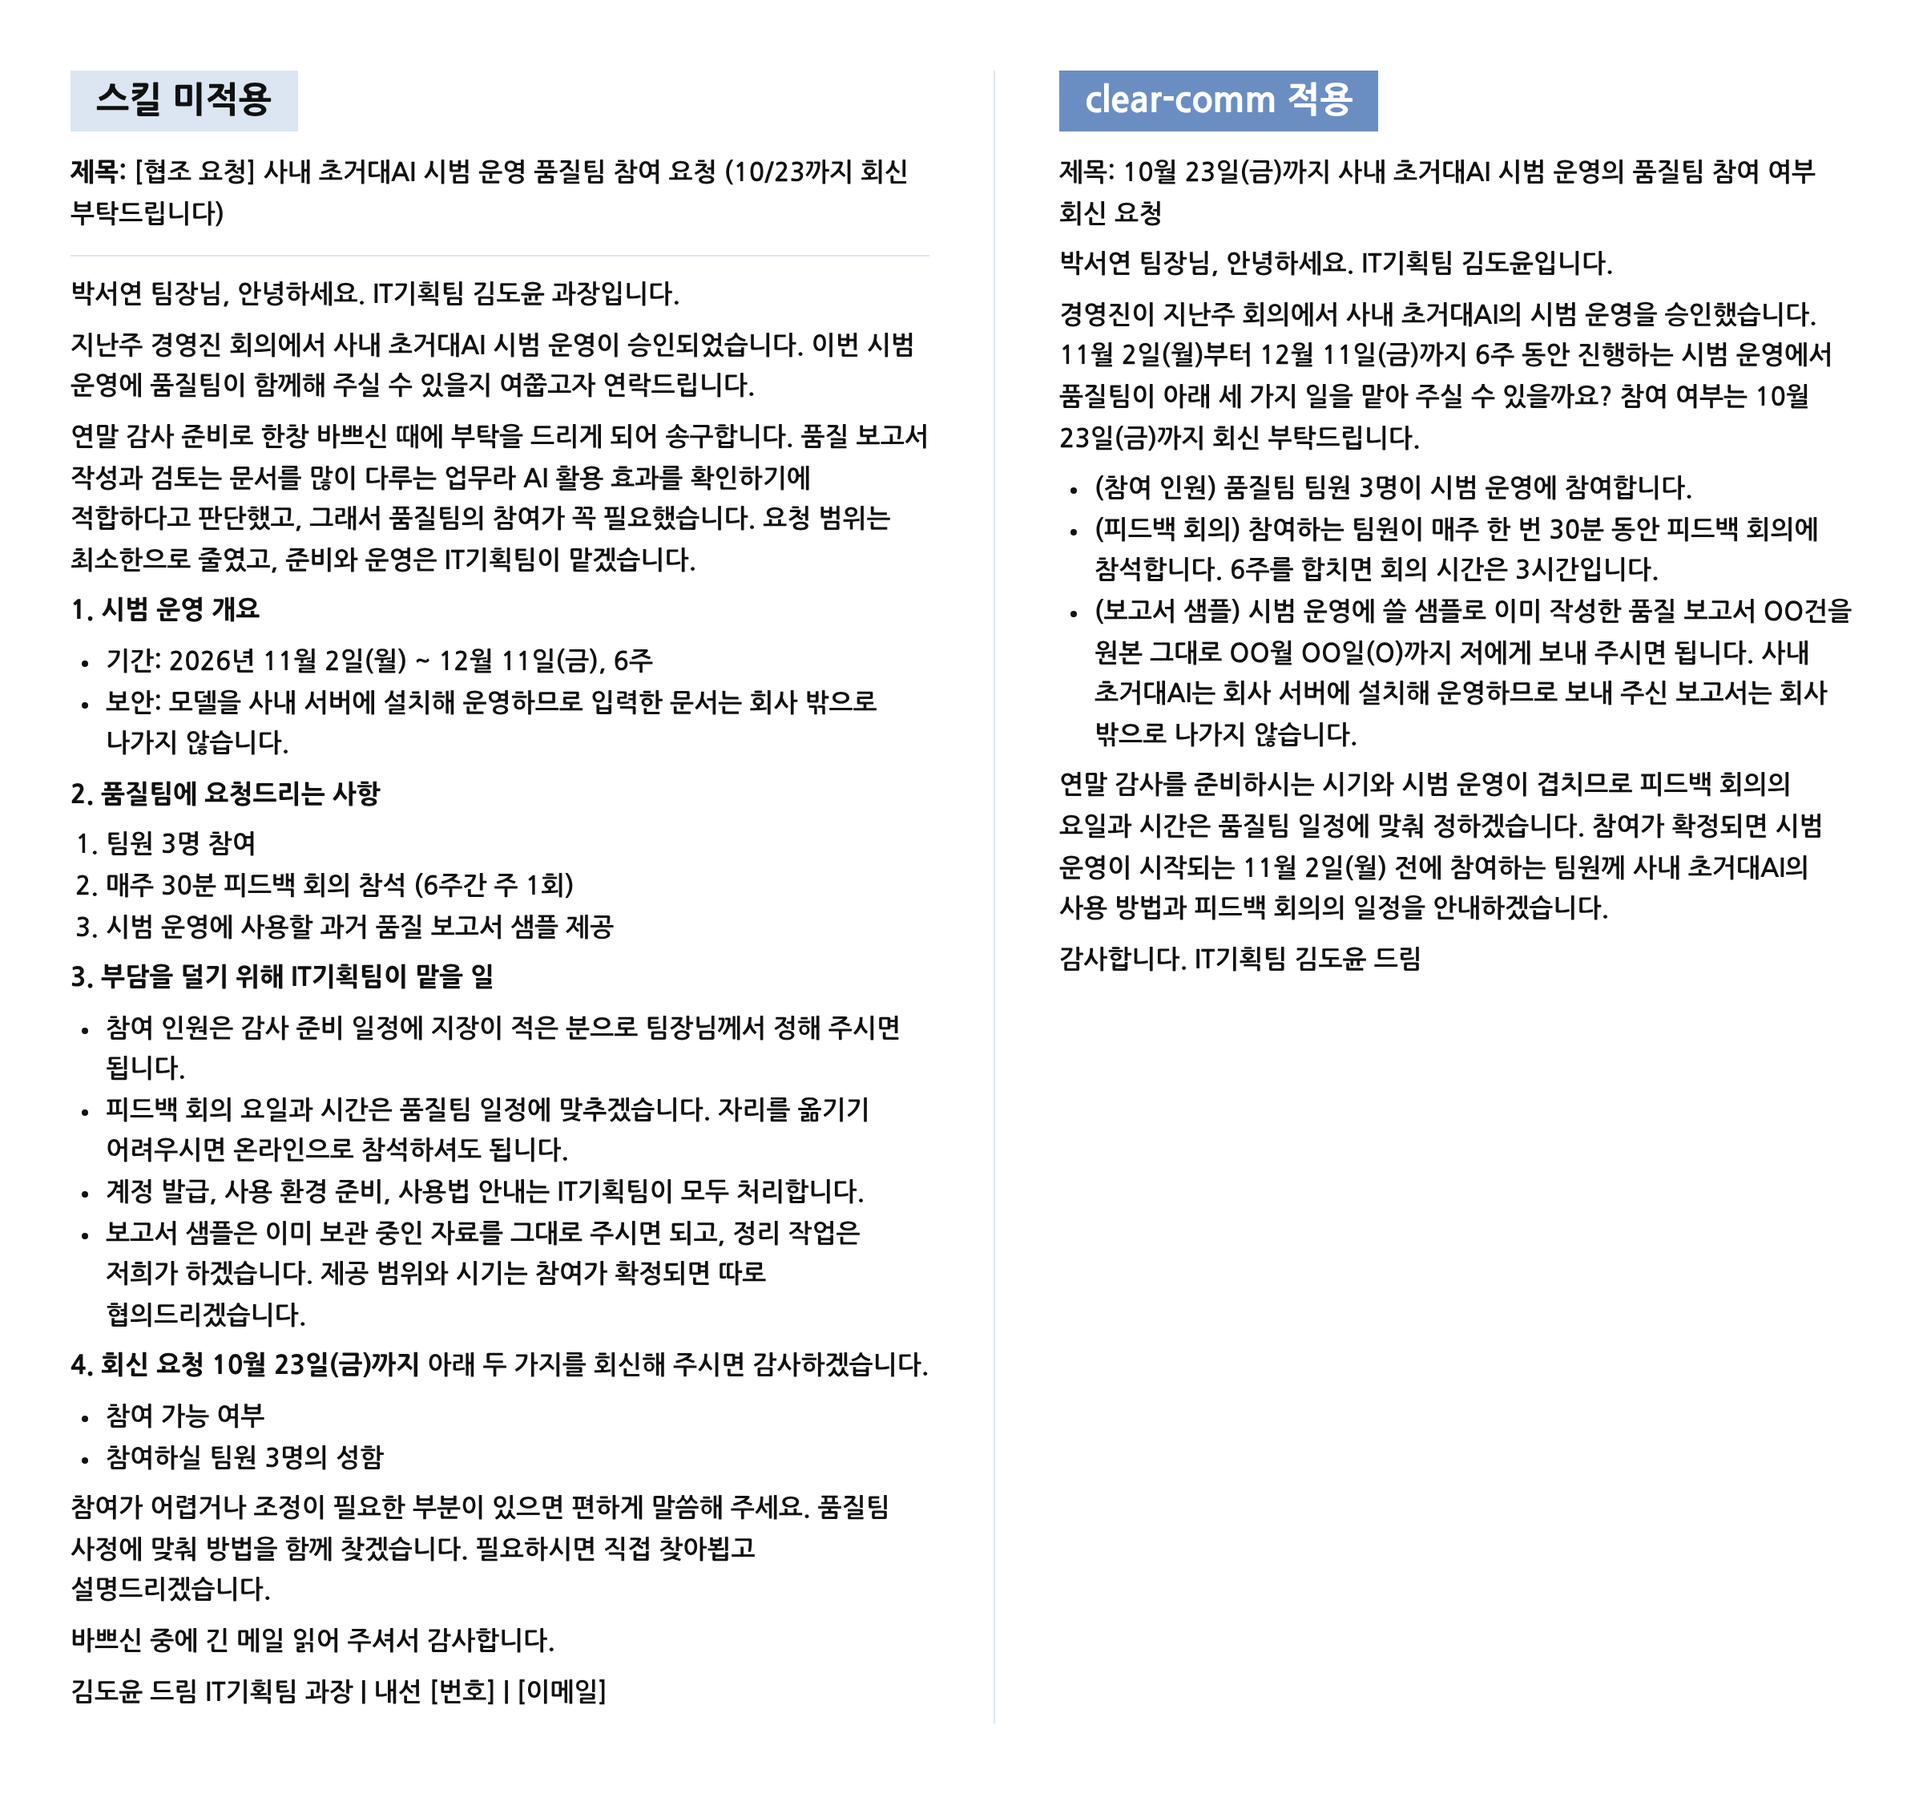
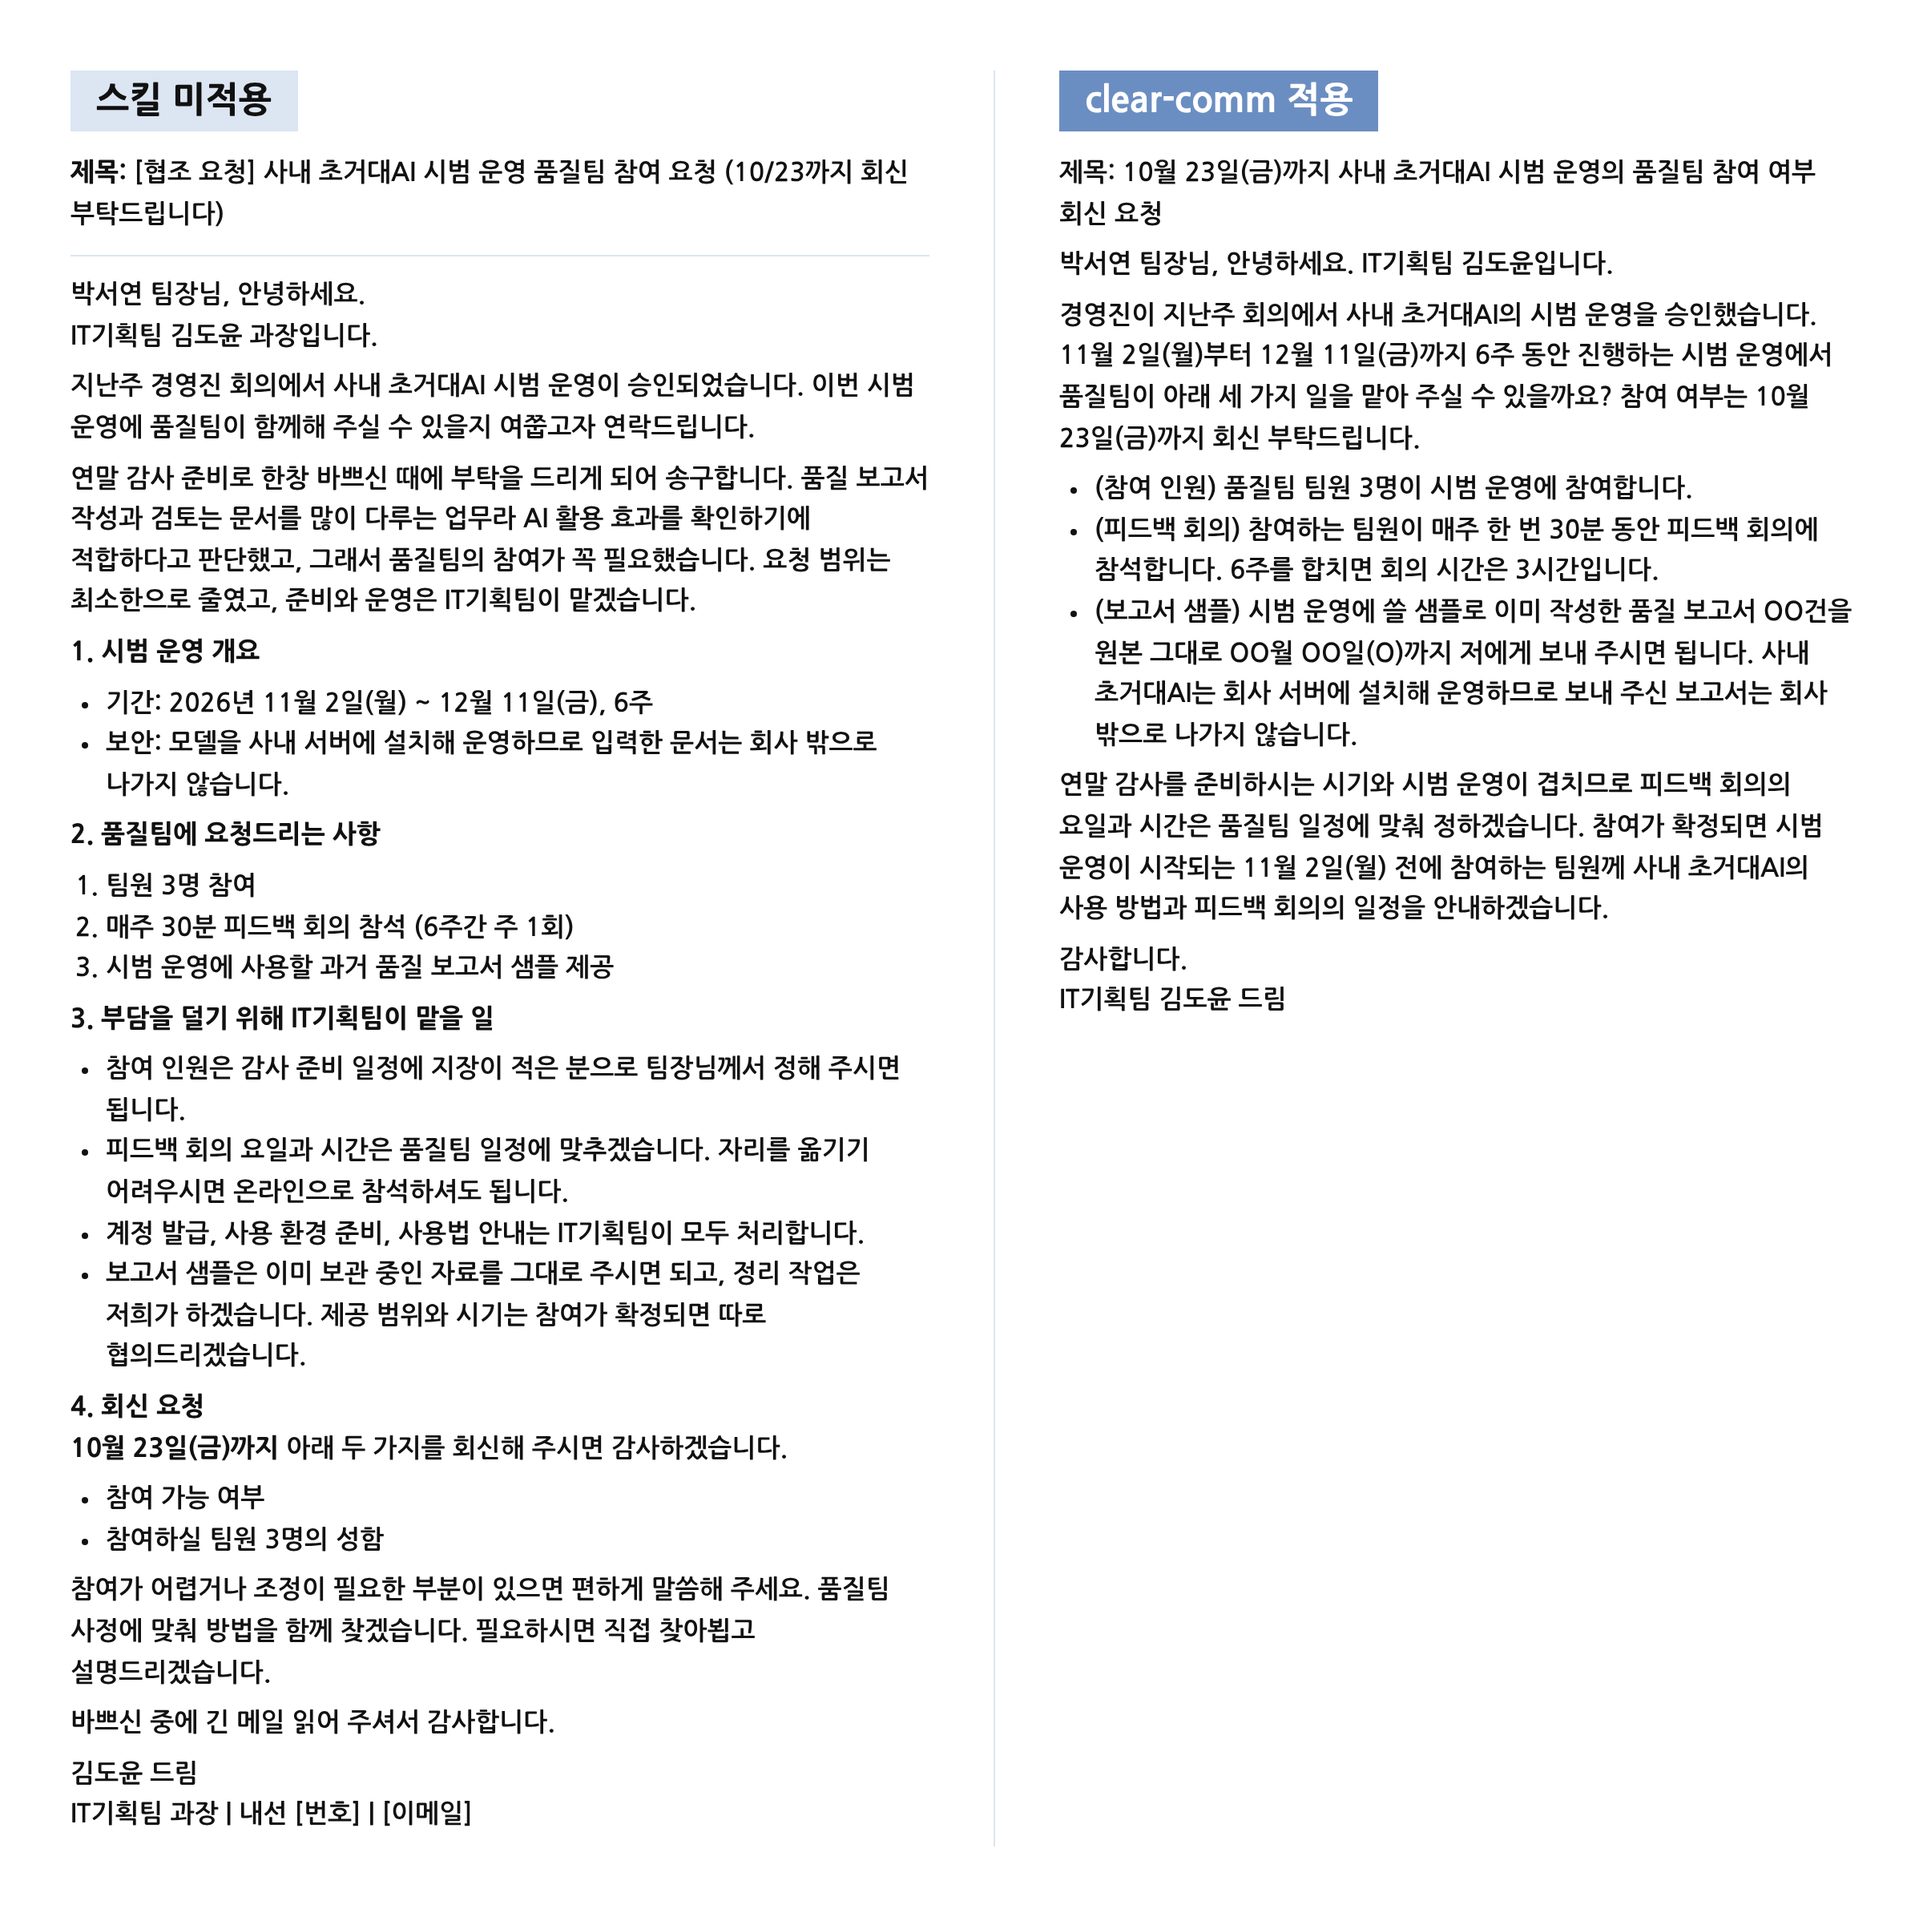
Finish the English demos and refresh all comparison images
- Adds the English logical-write skill run and renders the five English
  writing comparisons with English labels.
- Comparison images keep authored line breaks, and the clear-comm emails
  mark their signature lines as hard breaks so GitHub shows them on
  separate lines too.
- Three-column images are wider so long multi-skill labels stay on one
  line. All Korean and English images are re-rendered with these settings.

Claude-Session: https://claude.ai/code/session_01GGLbaL65V7p6PFmonQcYHU

Changed region(s): [[0.0312, 0.0308, 0.4688, 0.9558], [0.5312, 0.0308, 0.9688, 0.555]]

diff --git a/skills/logical-write/demo/en/after.md b/skills/logical-write/demo/en/after.md
@@ -1,0 +1,65 @@
+# Adopting Hyperscale AI In-House
+
+## Pilot on company servers recommended for the first half of next year
+- Open-weight hyperscale artificial intelligence (AI) model on company servers as the pilot setup
+    + Work documents kept inside the company network under current security rules
+    + Open-weight models now close to models kept private by their developers on public performance tests
+
+> (Hyperscale AI) Computer program trained on large volumes of text to answer questions and draft documents in everyday language
+
+> (Open-weight model) Hyperscale AI released by its developer as files for installation on a company's own servers
+
+- Document search and report drafting in the quality and design teams as the pilot tasks due to a reported time burden
+- Approval of the pilot scope and schedule requested
+    + Pilot budget for approval in January after quotes from outside implementation partners
+    + Expansion beyond the two teams decided in June on measured results
+- Performance on company documents and the running effort for the information technology (IT) team checked within the pilot before any wider rollout
+    + Public test results not yet confirmed on company quality and design documents
+    + No dedicated AI staff in the five-person IT team
+
+## Open-weight models on company servers as a usable route within current security rules
+- Entry of work documents into external generative AI services not allowed under company security rules
+- Lower performance and cost barriers to AI shown in the AI Index Report 2025 of the Stanford Institute for Human-Centered AI (HAI)
+    + Performance gap between open-weight models and models kept private by their developers down from 8% to 1.7% on some public performance tests within one year
+    + Cost of producing answers with AI at the performance level of GPT-3.5 down more than 280-fold between November 2022 and October 2024
+
+> Stanford HAI (2025), AI Index Report 2025 (https://hai.stanford.edu/ai-index/2025-ai-index-report)
+
+> (GPT-3.5) OpenAI model behind the first public version of ChatGPT in November 2022
+
+## Pilot limited to document search and report drafting in the quality and design teams
+- Heavy time burden of document search and report drafting reported by the quality and design teams
+- Narrow scope to keep the review and support workload within current staff
+
+| Item | Pilot content | Grounds |
+|---|---|---|
+| Users | Quality team and design team | Reported time burden of document search and report drafting |
+| Tasks | Answers from past documents with sources shown and first drafts of reports | Text-centered work in both teams |
+| Documents | Past documents of the two teams chosen by each team | Accuracy reviews by staff familiar with the documents |
+| Installation | Open-weight model on a server inside the company network | Security rules on external generative AI services |
+
+## Pilot resources limited to an outside partner, one part-time IT contact, and a company server
+- Outside implementation partner in charge of the pilot system due to the absence of dedicated AI staff in the five-person IT team
+    + Server access control and security checks by one IT staff member as the part-time in-house contact
+    + Operating know-how passed from the partner to the IT contact during the pilot
+- Pilot budget for approval in January after partner quotes
+    + Company server and partner fee as the main cost items
+    + Computing support of the Ministry of Science and ICT for small and medium-sized enterprises, startups, universities, and research institutes excluded from the budget plan due to unconfirmed eligibility of the company
+
+> Ministry of Science and ICT (2023), 초거대 AI 경쟁력 강화에 3901억 투입…"디지털 경제 가속화" (https://www.korea.kr/news/policyNewsView.do?newsId=148913885)
+
+## Expansion decided in June on measured results against thresholds set in advance
+- Pilot run from January to June in preparation, use, and evaluation phases
+
+| Phase | Period | Main work | Output |
+|---|---|---|---|
+| Preparation | January-February | Partner selection, security team review, server installation, measurement of current work time | Approved budget, security review result, current work time |
+| Use | March-May | Daily use by the two teams for document search and report drafting with logging of wrong answers | Usage log and wrong-answer log |
+| Evaluation | June | Comparison with current work time, review of answer accuracy, check of security logs, count of IT staff hours | Expansion recommendation |
+
+- Expansion beyond the two teams conditional on every measure meeting its threshold
+    + (Work time) Time per document search and per report draft against the current work time
+    + (Answer accuracy) Share of answers citing the correct source documents in reviews by each team
+    + (Security compliance) No work documents sent outside the company network in IT security logs
+    + (Running effort) Monthly IT staff hours spent on the pilot system
+- Threshold for each measure set by executives at the end of February after the measurement of current work time

diff --git a/skills/clear-comm/demo/ko/before.md b/skills/clear-comm/demo/ko/before.md
@@ -2,7 +2,7 @@
 
 ---
 
-박서연 팀장님, 안녕하세요.
+박서연 팀장님, 안녕하세요.  
 IT기획팀 김도윤 과장입니다.
 
 지난주 경영진 회의에서 사내 초거대AI 시범 운영이 승인되었습니다. 이번 시범 운영에 품질팀이 함께해 주실 수 있을지 여쭙고자 연락드립니다.
@@ -33,5 +33,5 @@ IT기획팀 김도윤 과장입니다.
 
 바쁘신 중에 긴 메일 읽어 주셔서 감사합니다.
 
-김도윤 드림
+김도윤 드림  
 IT기획팀 과장 | 내선 [번호] | [이메일]

diff --git a/skills/clear-comm/demo/ko/after.md b/skills/clear-comm/demo/ko/after.md
@@ -10,5 +10,5 @@
 
 연말 감사를 준비하시는 시기와 시범 운영이 겹치므로 피드백 회의의 요일과 시간은 품질팀 일정에 맞춰 정하겠습니다. 참여가 확정되면 시범 운영이 시작되는 11월 2일(월) 전에 참여하는 팀원께 사내 초거대AI의 사용 방법과 피드백 회의의 일정을 안내하겠습니다.
 
-감사합니다.
+감사합니다.  
 IT기획팀 김도윤 드림

diff --git a/skills/clear-comm/demo/en/after.md b/skills/clear-comm/demo/en/after.md
@@ -14,6 +14,6 @@ The six weekly feedback meetings add up to three hours for each member. Because 
 
 If the quality team can take part, could you include the names of the three members in your reply? Once I have their names, I will send the three members the schedule for the feedback meetings before the pilot starts on Monday, November 2.
 
-Thank you,
-Doyun Kim
+Thank you,  
+Doyun Kim  
 Manager, IT Planning Team

diff --git a/skills/clear-comm/demo/en/before.md b/skills/clear-comm/demo/en/before.md
@@ -23,5 +23,5 @@ I'm happy to walk you through the details in a short call if that would help.
 
 Thank you,
 
-Doyun Kim
+Doyun Kim  
 Manager, IT Planning Team
